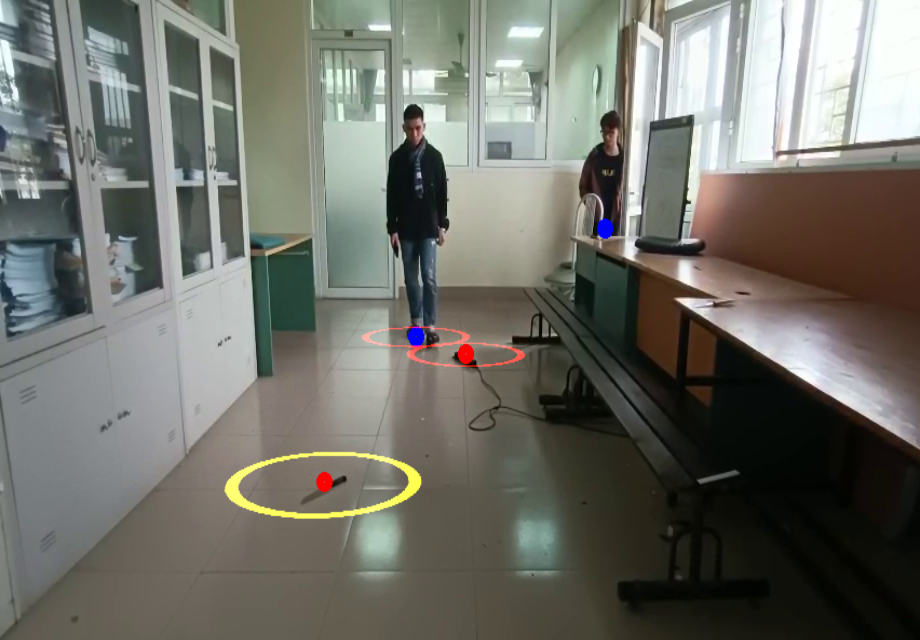
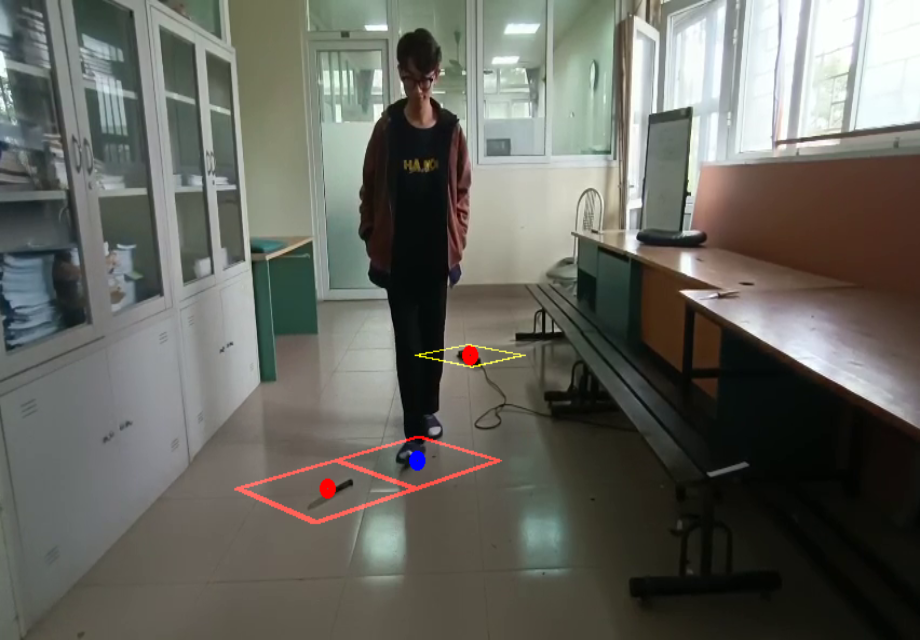
Bird view: Update shape mode

diff --git a/BirdView.py b/BirdView.py
@@ -3,29 +3,36 @@ import numpy as np
 from helpMethod import *
 
 class BirdView:
-    def __init__(self, region, dst, size_frame, d_collis):
+    def __init__(self, region, dst, size_frame, circle_mode = True, d_collis=DISTANCE_OBJECT, shape = POLYGON_OBJECT):
         self.region = region
         self.dst = dst
         self.region1 = np.array(region, dtype=np.int32).reshape((-1, 1, 2))
         self.M= getPerspectiveTransform(self.region, self.dst)
         self.d_collis = d_collis
         self.size_frame = size_frame
-
-    def convert_to_bird(self,centers, M):
-        '''Apply the perpective to the bird's-eye view.'''
-        centers = [perspectiveTransform(np.float32([[center]]), M) for center in centers.copy()]
-        centers = [list(center[0, 0]) for center in centers.copy()]
-        return centers
+        self.shape = shape
+        self.circle_mode = circle_mode
 
     def distance_bv(self, img_pos_1, img_pos_2):
         bv_pos1 = perspectiveTransform(np.float32([[img_pos_1]]), self.M)[0][0]
         bv_pos2 = perspectiveTransform(np.float32([[img_pos_2]]), self.M)[0][0]
         return distance(bv_pos1, bv_pos2)
+    def getPolygonBV(self, img_pos):
+        img_pos_bv = perspectiveTransform(np.float32([[img_pos]]), self.M)[0][0]
+        polygon = []
+        for i in self.shape:
+            polygon.append([int(i[0]+img_pos_bv[0]), int(i[1]+img_pos_bv[1])])
+        return polygon
 
     def isCollided(self, img_pos_1, img_pos_2):
-        return self.distance_bv(img_pos_1, img_pos_2) < self.d_collis
-    
-    def showObj(self, frame, point, color, d = -1):
+        if self.circle_mode:
+            return self.distance_bv(img_pos_1, img_pos_2) < self.d_collis
+        else:
+            polygon_bv1 = self.getPolygonBV(img_pos_1)
+            polygon_bv2 = self.getPolygonBV(img_pos_2)
+            return isPolygonIntersect(polygon_bv1, polygon_bv2)
+
+    def showObjCircle(self, frame, point, color, d = -1):
         if d<0:
             d = self.d_collis
         x, y = perspectiveTransform(np.float32([[point]]), self.M)[0][0]
@@ -37,10 +44,24 @@ class BirdView:
         overlay = warpPerspective(overlay, self.M, self.size_frame,
                                     INTER_NEAREST, WARP_INVERSE_MAP)
         return addWeighted(frame, 1, overlay, 1, 0)
+    def showObjShape(self, frame, point, color):
+        shape_bv = self.getPolygonBV(point)
+        overlay = np.zeros((5*self.size_frame[0], 4*self.size_frame[0], 3), np.uint8)
+        
+        overlay = draw_polygon(overlay, shape_bv, color, False, thickness=10)
+        overlay = warpPerspective(overlay, self.M, self.size_frame,
+                                    INTER_NEAREST, WARP_INVERSE_MAP)
+        return addWeighted(frame, 1, overlay, 1, 0)
+        # return draw_polygon(frame, shape_bv)
         
     def showObjs(self, frame, points, colors):
-        for i in range(len(points)):
-            frame = self.showObj(frame, points[i], colors[i])
+        if self.circle_mode:
+            for i in range(len(points)):
+                frame = self.showObjCircle(frame, points[i], colors[i])
+        else:
+            for i in range(len(points)):
+                frame = self.showObjShape(frame, points[i], colors[i])
+
         return frame
 
     def showRegion(self, frame, color = REGION_COLOR):

diff --git a/helpMethod.py b/helpMethod.py
@@ -90,14 +90,16 @@ def setup_points(img_bg, window_name, path_save):
     writePointPolygon(path_save, points)
     return points
 
-def draw_polygon (frame, points):
-    for point in points:
-        frame = circle( frame, (point[0], point[1]), 5, (0,0,255), -1)
-    frame = polylines(frame, [np.int32(points)], False, (255,0, 0), thickness=2)
+def draw_polygon (frame, points, color = (255,0, 0), show_point = True, thickness = 2):
+    if show_point:
+        for point in points:
+            frame = circle( frame, (point[0], point[1]), 5, (0,0,255), -1)
+    frame = polylines(frame, [np.int32(points)], False, color, thickness)
     if(len(points) > 2):
-        frame = line(frame, tuple(points[0]), tuple(points[-1]),(255,0, 0), thickness=2)
+        frame = line(frame, tuple(points[0]), tuple(points[-1]),color, thickness)
     return frame
-
+def isPolygonIntersect(points1, points2):
+    return Polygon(points1).intersects(Polygon(points2))
 def distance(point1, point2):
     '''Calculate usual distance.'''
     x1, y1 = point1

diff --git a/main.py b/main.py
@@ -21,7 +21,7 @@ if __name__ == '__main__':
     # init Bird view
     region = np.float32([REGION_P1, REGION_P2, [width, height], [0, height]])
     dst = np.float32([[0, 0], [width, 0], [width, 3*width], [0, 3*width]])
-    BirdV = BirdView(region, dst, size, DISTANCE_OBJECT)
+    BirdV = BirdView(region, dst, size, circle_mode=CIRCLE_MODE)
 
     # load model
     Det = Detect(WEIGHT, IMG_SIZE_YOLO, DEVICE)

diff --git a/config.py b/config.py
@@ -21,7 +21,9 @@ PATH_POINTS_POLYGON = r".\data\points.txt"
 # Bird view
 REGION_P1 = [300, 210]
 REGION_P2 = [520, 210]
-DISTANCE_OBJECT = 250
+DISTANCE_OBJECT = 250   # Circle mode
+POLYGON_OBJECT =[[-120,0],[0,-120],[120,0],[0,120]] # Shape mode
+CIRCLE_MODE = False
 
 # Object colors
 COLOR1_DEFAULT = (255,255,0)
